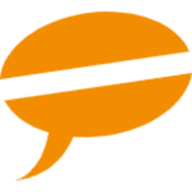
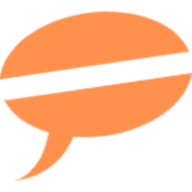
refactor{scope}: huisstijl verder verfijnd
Stijl verder verfijnd, beige werkte niet als achtergrondkleur:

(note: bruin en donkeroranje zijn tijdelijke kleurcodes)

- Logo overgetrokken en geëxporteerd als SVG
- Kleur van de favicon ge-update
- Nieuwe banners voor desktop en mobiel
- Nieuwe kleur wit toegevoegd (zelfde achtergrondkleur als Instagram)
- Titels van donkeroranje naar oranje
- Font dikte aangepast bij section id = menu
- Footer van donkderbruin in basis naar wit

{breaking_change}{footer}

diff --git a/index.html b/index.html
@@ -43,25 +43,24 @@
     <script defer src="https://unpkg.com/alpinejs@3.7.0/dist/cdn.min.js"></script>
 </head>
 
-<body class="antialiased font-sans border-t-2 border-inspire-orange bg-inspire-beige">
+<body class="antialiased font-sans border-t-2 border-inspire-orange bg-inspire-white">
     <header class="p-8 max-w-5xl m-auto flex justify-between items-center">
         <div class="h-14">
             <img class="h-full object-cover"
-                 src="img/inspire-logo-small.png"
-                 srcset="img/inspire-logo.png 2x"
+                 src="img/inspire-logo-orange-dark-brown.svg"
                  alt="Inspire Logo">
         </div>
         <nav class="font-semibold text-lg text-inspire-brown-dark">
             <ul class="flex space-x-2">
                 <li class="hidden sm:block">
-                    <a class="py-1 px-3 hover:text-inspire-orange-dark focus:text-inspire-orange-dark active:text-inspire-brown-dark transition-colors duration-200"
+                    <a class="py-1 px-3 hover:text-inspire-orange focus:text-inspire-orange active:text-inspire-brown-dark transition-colors duration-200"
                        href="#menu"
                        rel="nofollow">
                         menu
                     </a>
                 </li>
                 <li class="hidden sm:block">
-                    <a class="py-1 px-3 hover:text-inspire-orange-dark focus:text-inspire-orange-dark active:text-inspire-brown-dark transition-colors duration-200"
+                    <a class="py-1 px-3 hover:text-inspire-orange focus:text-inspire-orange active:text-inspire-brown-dark transition-colors duration-200"
                        href="#contact"
                        rel="nofollow">
                         contact
@@ -80,17 +79,17 @@
     </header>
     <main>
         <section class="max-w-5xl m-auto text-inspire-brown-dark">
-            <div class="overflow-hidden sm:mx-8">
-                <img class="hidden sm:block h-72 w-full object-cover object-bottom"
-                     src="img/banner.jpg"
+            <div class="overflow-hidden sm:rounded sm:mx-8">
+                <img class="hidden sm:block h-[302px] w-full object-cover object-bottom"
+                     src="img/banner-1.jpg"
                      alt="Vooraanzicht van Inspire Breda">
                 <img class="block sm:hidden h-80 w-full object-cover object-bottom"
-                     src="img/banner-mobile.jpg"
+                     src="img/banner-mobile-1.jpg"
                      alt="Vooraanzicht van Inspire Breda">
             </div>
             <div class="mt-8 mx-8">
                 <h1 class="w-2/3 pt-8 uppercase font-black tracking-normal text-3xl">
-                    Welkom bij <span class="text-inspire-orange-dark">Inspire</span>
+                    Welkom bij <span class="text-inspire-orange">Inspire</span>
                 </h1>
                 <p class="font-light text-base sm:columns-2 gap-8 hyphens-auto py-8">
                     Met uitzicht op de Grote Markt van Breda genieten van de lekkerste koffie, gezonde lunch en afsluiten met een speciaalbiertje of de perfecte cocktail? Inspire heeft het allemaal in huis! Plof neer op onze bank of borrel met vrienden aan onze lange tafels. Met de exper&shy;tise van ons personeel weet je zeker dat je het juiste drankje voorgeschoteld krijgt. Liever een dagje rustig werken? Met onze razendsnelle internetverbinding ben je klaar voor elke meeting. Kom gezellig langs en laat je inspireren!
@@ -128,7 +127,7 @@
                 </div>
             </div>
         </section>
-        <section id="menu" class="bg-inspire-orange text-inspire-brown-dark">
+        <section id="menu" class="bg-inspire-orange text-inspire-white">
             <div class="pt-16 pb-8 max-w-5xl m-auto">
                 <h2 class="w-full sm:text-center pl-8 sm:px-8 uppercase tracking-normal font-black text-2xl">
                     Menukaarten
@@ -142,7 +141,7 @@
                                     <img class="h-[300px] rounded-lg shadow-lg sm:hover:shadow-xl sm:transition-shadow sm:duration-200"
                                          :src="menukaart.src"
                                          :alt="menukaart.name">
-                                    <span class="inline-block text-center w-full font-medium"
+                                    <span class="inline-block text-center w-full font-semibold"
                                           x-text="menukaart.name">
                                     </span>
                                 </div>
@@ -153,19 +152,19 @@
             </div>
         </section>
     </main>
-    <footer id="contact" class="bg-inspire-brown-dark -scroll-mt-8">
+    <footer id="contact" class="bg-inspire-white -scroll-mt-8">
         <div class="pt-16 pb-8 px-8 max-w-5xl m-auto flex flex-col justify-between sm:block">
             <div class="grid grid-cols-1 sm:grid-cols-2 lg:grid-cols-3 gap-8">
                 <div class="space-y-4">
-                    <h2 class="uppercase tracking-normal font-black text-inspire-beige">
+                    <h2 class="uppercase tracking-normal font-black text-inspire-orange">
                         Contact
                     </h2>
-                    <p class="text-inspire-brown-light font-light">
+                    <p class="text-inspire-brown-dark font-light">
                         <strong>Inspire Coffee Company</strong><br>
                         Veemarktstraat 4<br>
                         4811 ZE Breda
                     </p>
-                    <nav class="text-inspire-brown-light font-light">
+                    <nav class="text-inspire-brown-dark font-light">
                         <ul>
                             <li class="hover:opacity-75 focus:opacity-75 active:opacity-100 transition-opacity duration-200">
                                 <a href="tel:0031765153272">
@@ -181,10 +180,10 @@
                     </nav>
                 </div>
                 <div id="openingstijden" class="space-y-4 scroll-m-8">
-                    <h2 class="uppercase tracking-normal font-black text-inspire-beige">
+                    <h2 class="uppercase tracking-normal font-black text-inspire-orange">
                         Openingstijden
                     </h2>
-                    <table x-data class="text-inspire-brown-light font-light">
+                    <table x-data class="text-inspire-brown-dark font-light">
                         <template x-for="openingstijd in $store.data.openingstijden">
                             <tr>
                                 <td class="align-top pr-8" x-text="openingstijd.dag"></td>
@@ -194,10 +193,10 @@
                     </table>
                 </div>
                 <div class="space-y-4">
-                    <h2 class="uppercase tracking-normal font-black text-inspire-beige">
+                    <h2 class="uppercase tracking-normal font-black text-inspire-orange">
                         Social
                     </h2>
-                    <nav class="text-inspire-brown-light">
+                    <nav class="text-inspire-orange">
                         <ul x-data class="flex">
                             <template x-for="social in $store.data.socials">
                                 <li class="ml-4 second:ml-0 hover:opacity-75 focus:opacity-75 active:opacity-100 transition-opacity duration-200">
@@ -214,10 +213,10 @@
                     </nav>
                 </div>
             </div>
-            <p class="mt-8 text-sm text-center text-inspire-brown-light font-light italic">
+            <p class="mt-8 text-sm text-center text-inspire-brown-dark font-light italic">
                 Bijgewerkt: <span x-data x-text="$store.data.openingstijdenGewijzigd.datum"></span>
             </p>
-            <div class="mt-8 text-sm text-center w-full font-light text-inspire-brown-light border-t border-opacity-25 border-inspire-brown-light">
+            <div class="mt-8 text-sm text-center w-full font-light text-inspire-brown-dark border-t border-opacity-25 border-inspire-brown-dark">
                 <p x-data class="pt-8">
                     Copyright &copy; <span x-text="new Date().getFullYear()"></span> Inspire Coffee Company. Alle rechten voorbehouden.
                 </p>
@@ -256,7 +255,7 @@
                     { dag: 'Zaterdag', tijd: '09:00 - 20:00' },
                     { dag: 'Zondag', tijd: '10:30 - 20:00' }
                 ],
-                openingstijdenGewijzigd: { datum: 'Vrijdag 17 juni 2022' },
+                openingstijdenGewijzigd: { datum: 'Donderdag 23 juni 2022' },
                 socials: [
                     { href: 'https://www.facebook.com/inspirecoffeecompany/', label: 'facebook', svgClass: 'bi-facebook', svgPath: 'M16 8.049c0-4.446-3.582-8.05-8-8.05C3.58 0-.002 3.603-.002 8.05c0 4.017 2.926 7.347 6.75 7.951v-5.625h-2.03V8.05H6.75V6.275c0-2.017 1.195-3.131 3.022-3.131.876 0 1.791.157 1.791.157v1.98h-1.009c-.993 0-1.303.621-1.303 1.258v1.51h2.218l-.354 2.326H9.25V16c3.824-.604 6.75-3.934 6.75-7.951z' },
                     { href: 'https://twitter.com/inspirecoffee', label: 'twitter', svgClass: 'bi-twitter', svgPath: 'M5.026 15c6.038 0 9.341-5.003 9.341-9.334 0-.14 0-.282-.006-.422A6.685 6.685 0 0 0 16 3.542a6.658 6.658 0 0 1-1.889.518 3.301 3.301 0 0 0 1.447-1.817 6.533 6.533 0 0 1-2.087.793A3.286 3.286 0 0 0 7.875 6.03a9.325 9.325 0 0 1-6.767-3.429 3.289 3.289 0 0 0 1.018 4.382A3.323 3.323 0 0 1 .64 6.575v.045a3.288 3.288 0 0 0 2.632 3.218 3.203 3.203 0 0 1-.865.115 3.23 3.23 0 0 1-.614-.057 3.283 3.283 0 0 0 3.067 2.277A6.588 6.588 0 0 1 .78 13.58a6.32 6.32 0 0 1-.78-.045A9.344 9.344 0 0 0 5.026 15z' },

diff --git a/tailwind.config.js b/tailwind.config.js
@@ -13,6 +13,7 @@ module.exports = {
         'inspire-brown': '#C99C6C', // #C99C6C color picker
         'inspire-brown-dark': '#331606', // #331606 menukaart / #331606 honktwee
         'inspire-beige': '#EFDAC5', // #EFDAC5 honktwee (achtergrond kleur)
+        'inspire-white': '#FAFAFA', // #FDFDFF andre / #FAFAFA instagram
         'inspire-blue-gray': '#B0C4CF', // Verf kleur voorgevel (zie cover photo mobiel)
         'instagram-blue': '#0095F6',
         'instagram-blue-dark': '#0074CC',
